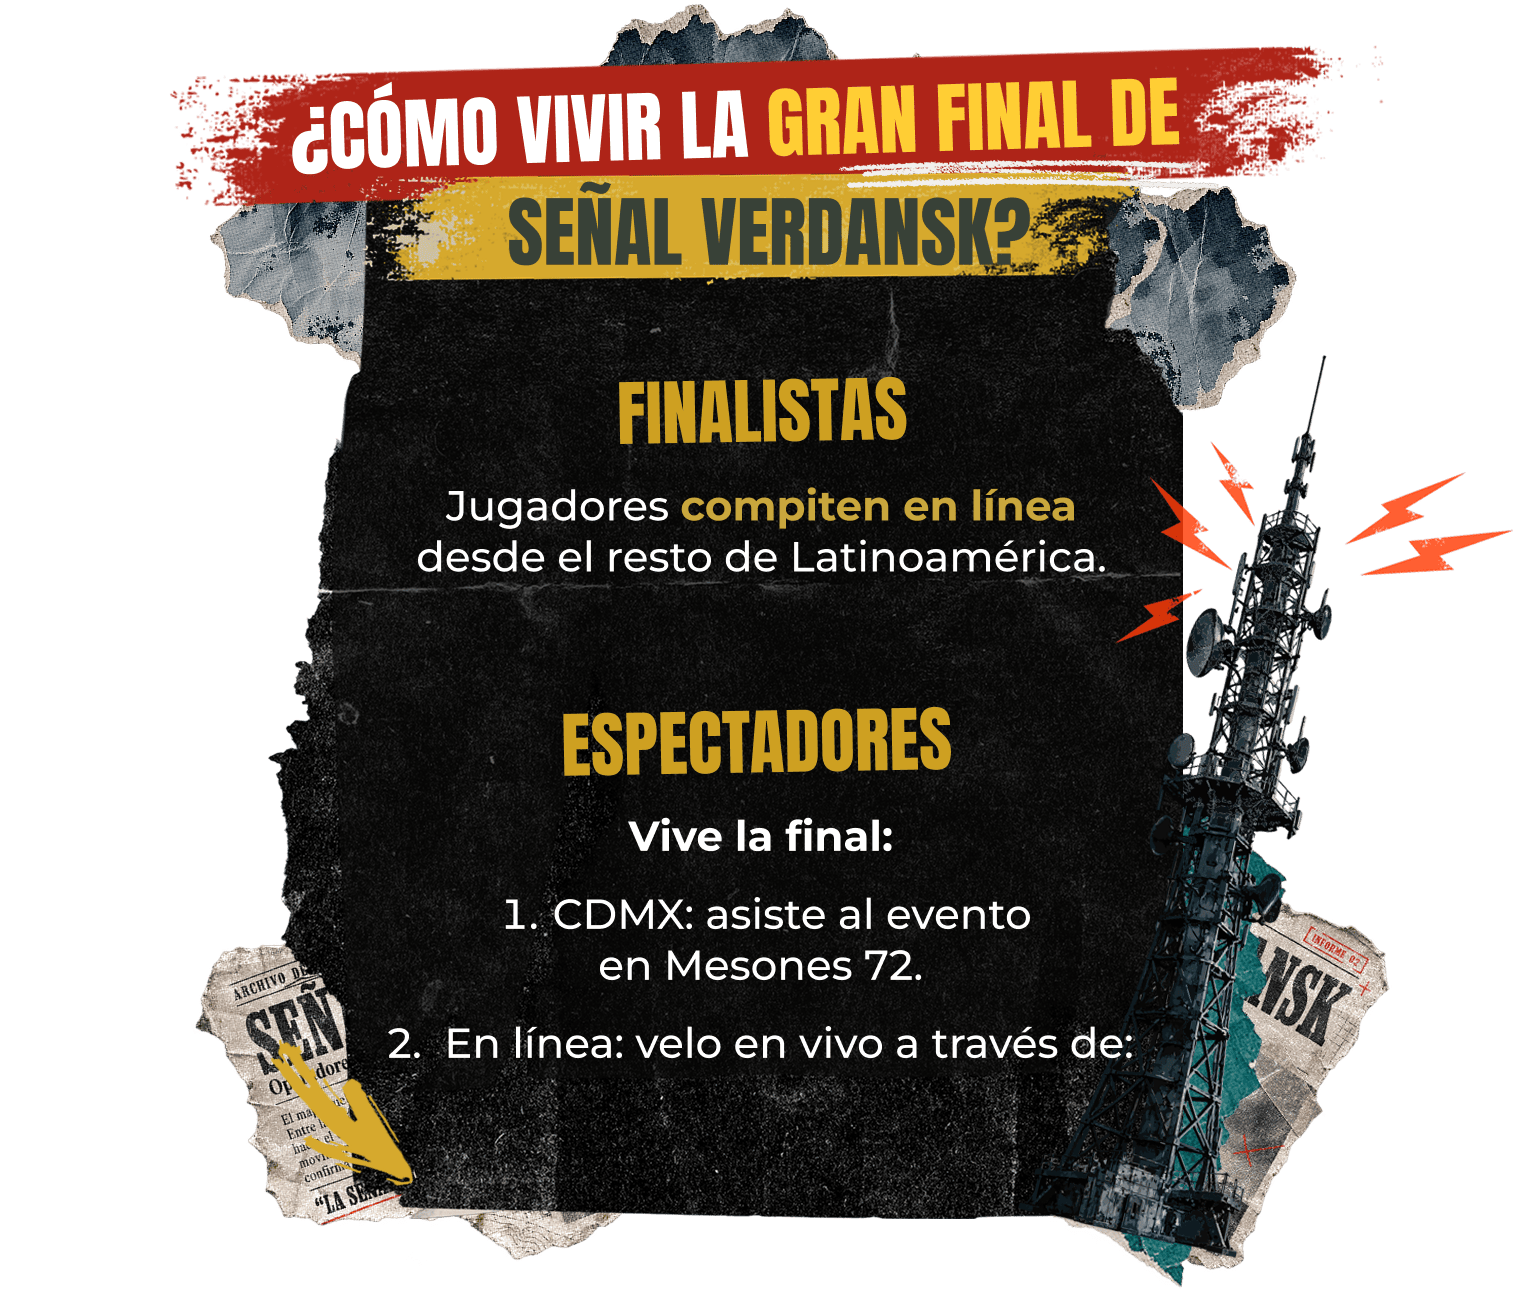
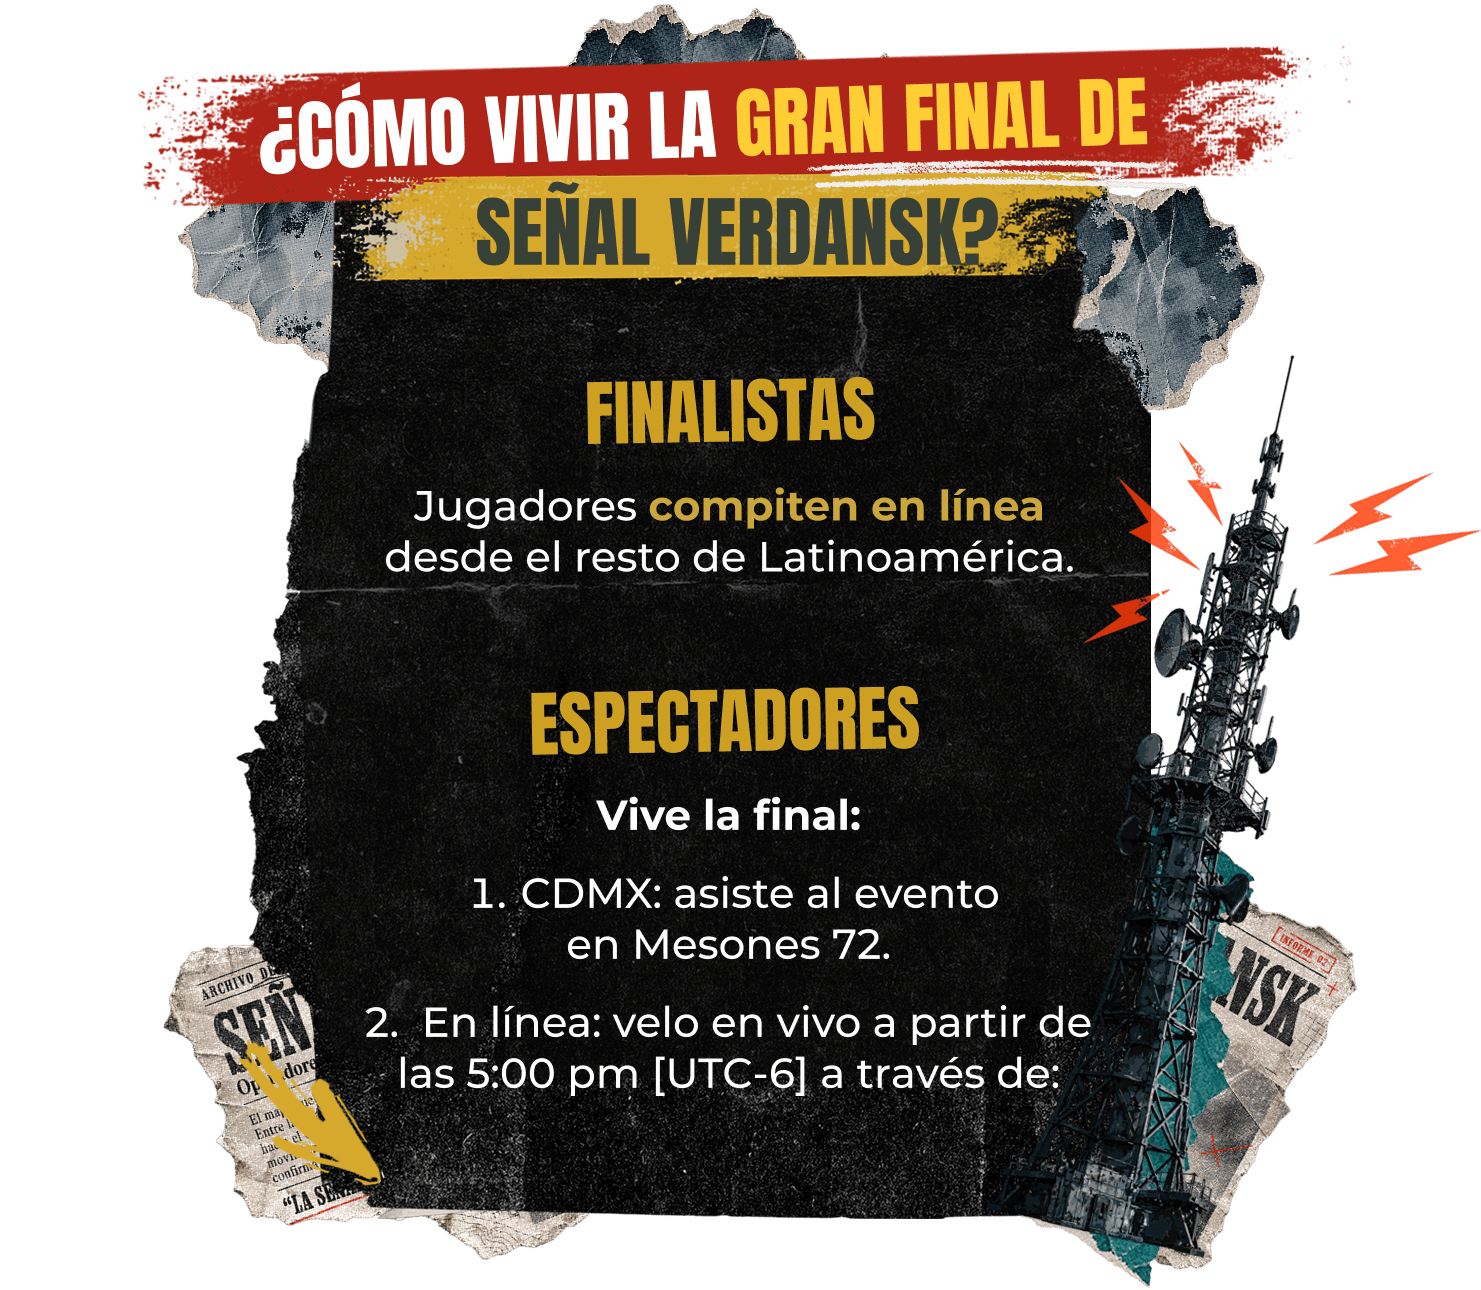
something

Changed region(s): [[0.0932, 0.0, 0.9629, 1.0]]

diff --git a/src/components/Home/Intro/Intro.js b/src/components/Home/Intro/Intro.js
@@ -159,13 +159,18 @@ const Intro = () => {
             <Counter />
           </Reveal>
 
+          <p className="intro-text-subtitle">
+            APERTURA DE PUERTAS <br></br>
+3:30 PM [UTC-6]
+          </p>
+
           <Reveal>
             <div
               style={{
                 position: "absolute",
                 top: "700px",
                 height: "500px",
-                left: "90%",
+                left: "100%",
                 width: "1px",
               }}
             >
@@ -298,6 +303,21 @@ const Intro = () => {
             Calle de Mesones 72, Centro Histórico, <br></br> Cuauhtémoc, 06080,
             Ciudad de México
           </p>
+
+                    <p
+            className="intro-text-subtitle"
+            style={{
+              position: "absolute",
+              top: "100%",
+              left: "50%",
+              transform: "translateX(-50%)",
+            }}
+          >
+            APERTURA DE PUERTAS 
+3:30 PM [UTC-6]
+          </p>
+
+          
           <Reveal>
             <Counter />
           </Reveal>

diff --git a/src/components/Home/GrandFinal/GrandFinal.css b/src/components/Home/GrandFinal/GrandFinal.css
@@ -11,10 +11,11 @@
   rotate: -2deg;
   padding: 0px 20px;
   max-width: 400px;
+  margin-top: 80px;
 }
 
 .grandfinal-black{
-  width: 170vw;
+  width: 150vw;
   height: auto;
   position: absolute;
   top: -5%;
@@ -132,7 +133,7 @@
 .grandfinal-date{
   width: auto;
   height: 63px;
-  margin-top: 20px;
+  margin-top: 50px;
 }
 
 .grandfinal-black-container-desktop{
@@ -173,12 +174,12 @@
 }
 
 .grandfinal-black-desktop{
-  width: 55vw;
+  width: 48vw;
   max-width: 1030px;
   height: auto;
 
   position: absolute;
-  top: 95%;
+  top: 108%;
   left: 50%;
   transform: translateX(-50%);
   z-index: 2;
@@ -230,7 +231,7 @@
   margin-top: 20px;
   position: absolute;
   left: 50%;
-  top: 153%;
+  top: 155%;
   transform: translate(-50%, -50%);
   z-index: 15;
   cursor: pointer;

diff --git a/src/assets/assetsDirectory.js b/src/assets/assetsDirectory.js
@@ -265,7 +265,7 @@ const toknow_bckg = "https://file.verdanskcodm.com/toknow/toknow-background.png"
 const CreatorsPage_bckg = "https://file.verdanskcodm.com/CreatorsPage/creatorsPage_Bckg.png";
 
 
-const desktop_1 = "https://file.verdanskcodm.com/desktop/desktop-1.3.png";
+const desktop_1 = "https://file.verdanskcodm.com/desktop/desktop-1.4.png";
 const desktop_2 = "https://file.verdanskcodm.com/desktop/desktop-2.png";
 const desktop_3 = "https://file.verdanskcodm.com/desktop/desktop-3.1.png";
 const desktop_4 = "https://file.verdanskcodm.com/desktop/desktop-4.2.png";

diff --git a/src/components/Home/Intro/Intro.css b/src/components/Home/Intro/Intro.css
@@ -258,7 +258,7 @@
     height: 10vw;
     z-index: 2;
     top: 35%;
-    left: -0.5%;
+    left: 11%;
     transform: translate(0%, -50%);
 
 }
